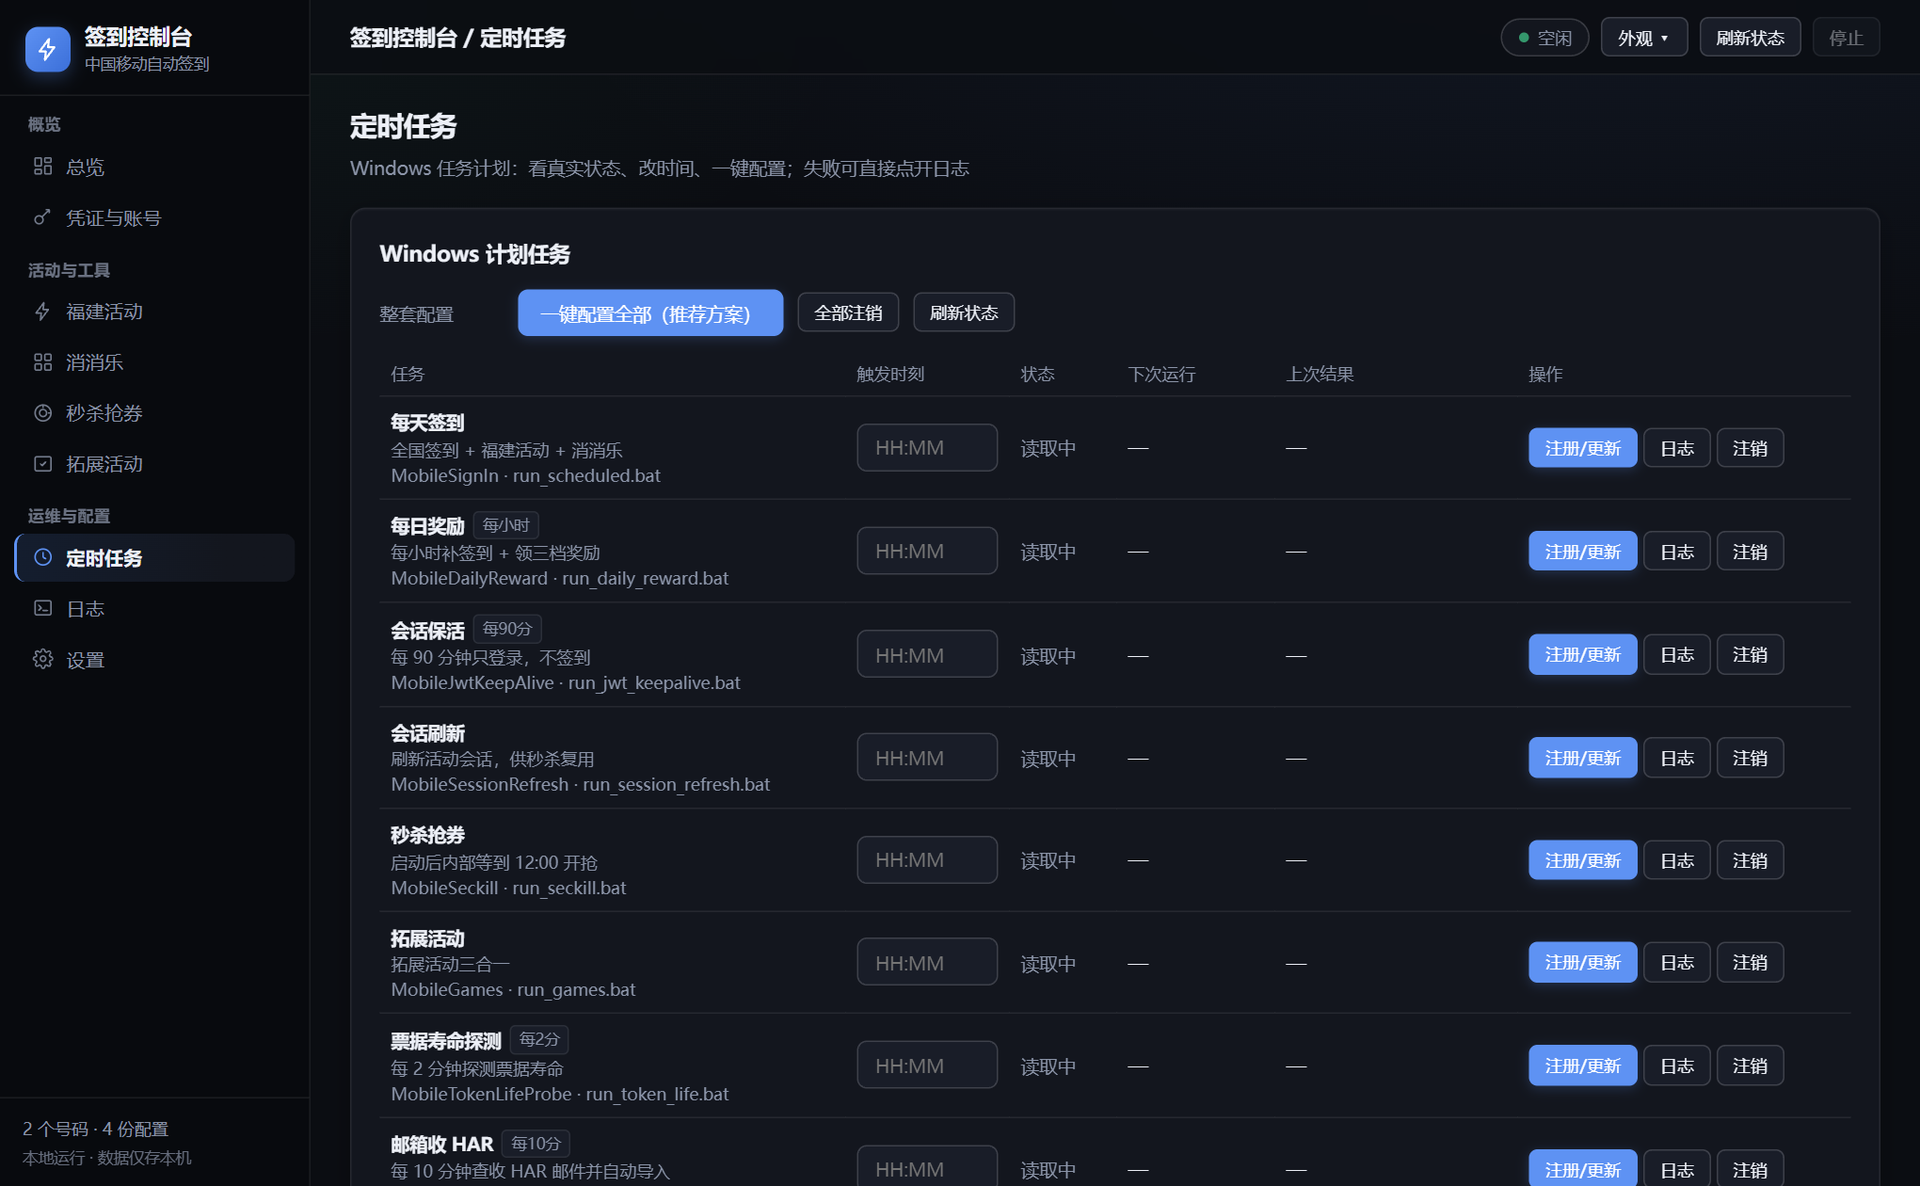
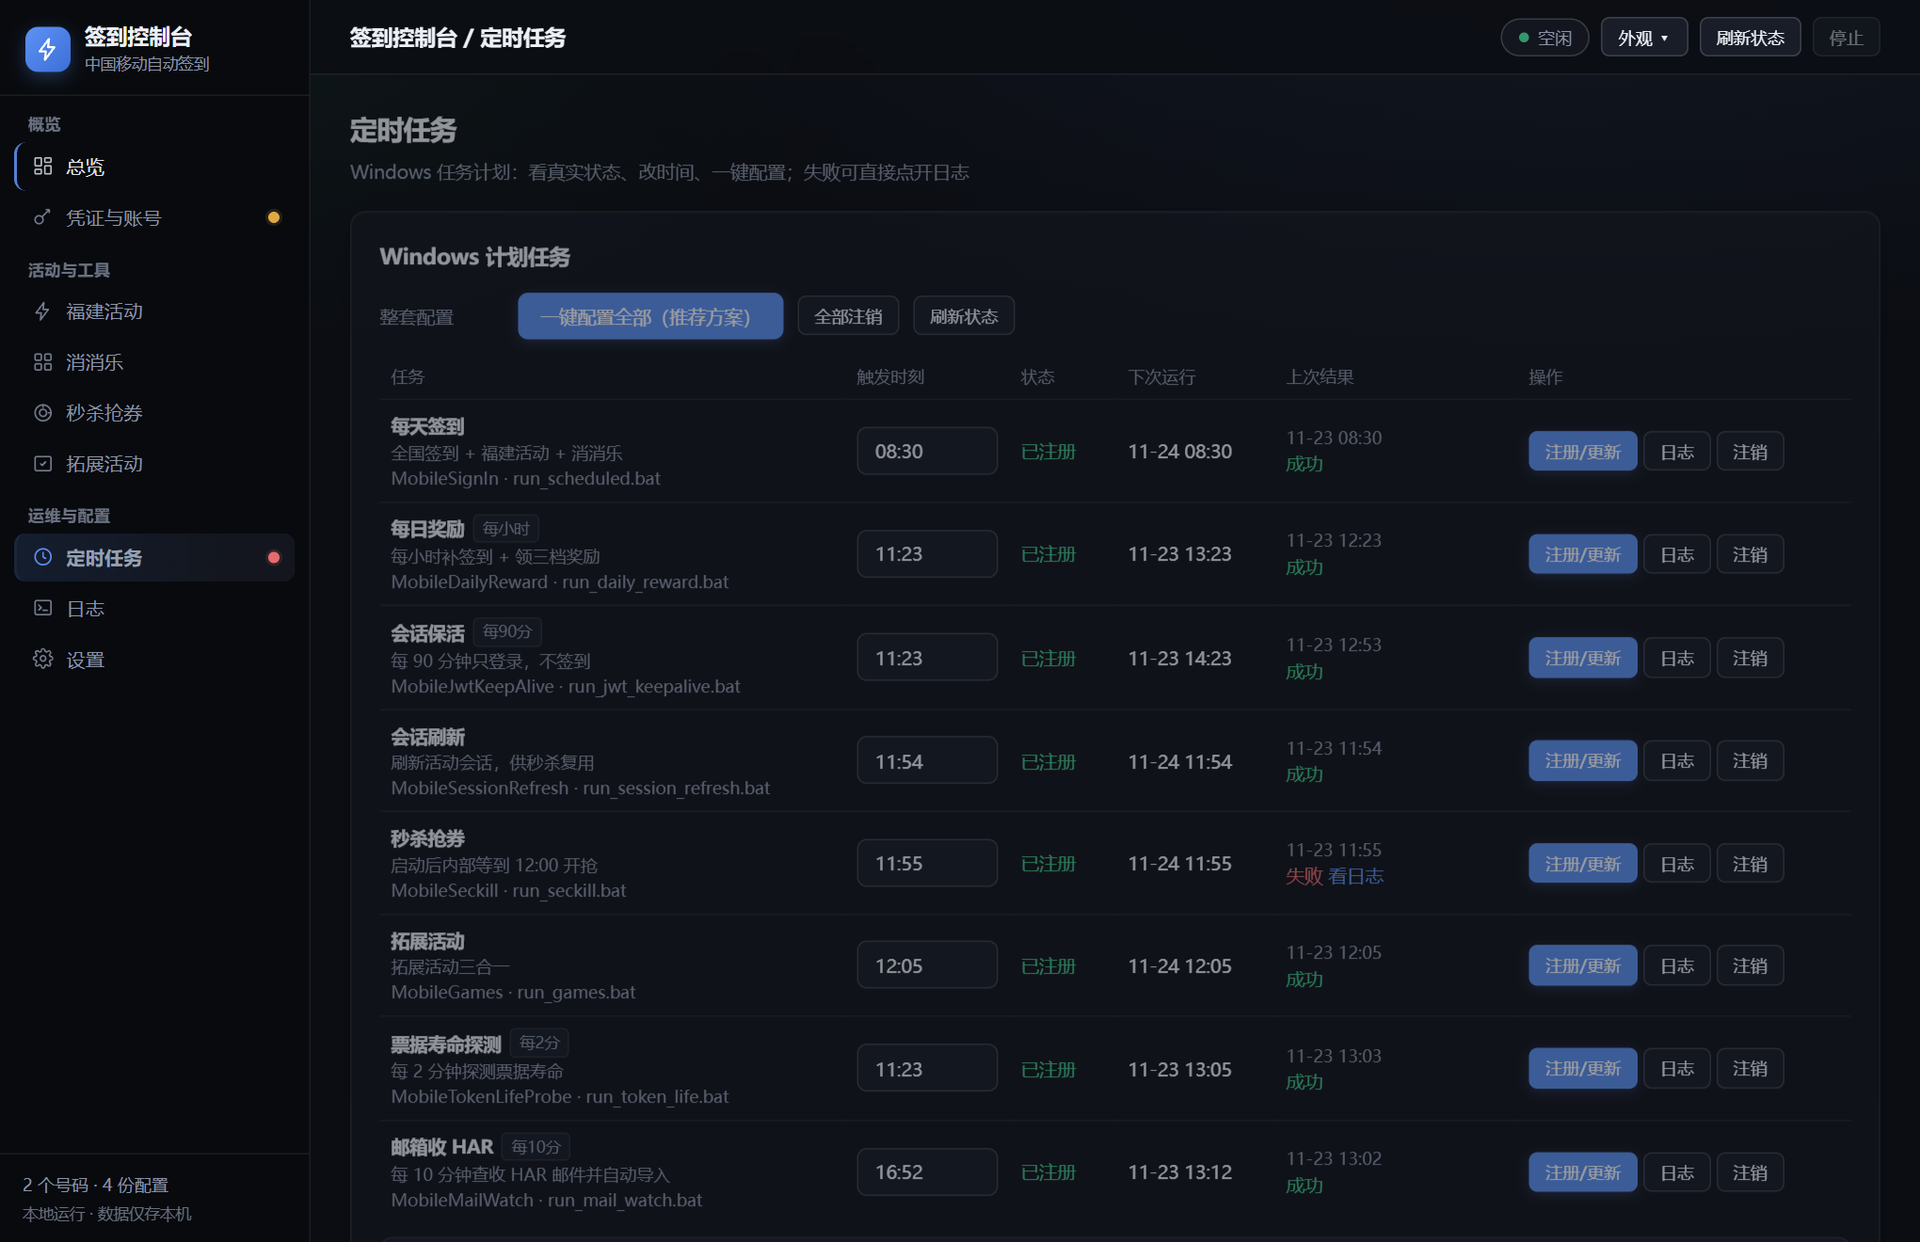
fix: 拦截只读查询模式下的推送通知，补齐抽奖/寻宝就地输出框与预览图细节

diff --git a/static/index.html b/static/index.html
@@ -171,10 +171,11 @@
         <div class="panel" data-bass-group="play">
           <h3>优惠专区抽奖 <span class="hint">共用福建活动凭证，刷任务 + 抽奖</span></h3>
           <div class="frow">
-            <button type="button" class="btn pri" onclick="act({action:'luck_run'},()=>setTimeout(pullState,3000))">刷任务并抽奖</button>
-            <button type="button" class="btn" onclick="act({action:'luck_run',dry:1},()=>setTimeout(pullState,3000))">只查状态</button>
-            <button type="button" class="btn" onclick="act({action:'luck_run',no_tasks:1},()=>setTimeout(pullState,2500))">只抽不刷任务</button>
+            <button type="button" class="btn pri" onclick="runLuck('all')">刷任务并抽奖</button>
+            <button type="button" class="btn" onclick="runLuck('dry')">只查状态</button>
+            <button type="button" class="btn" onclick="runLuck('no_tasks')">只抽不刷任务</button>
           </div>
+          <div id="luckOutBox"></div>
           <div id="luckBox"></div>
           <details class="guide">
             <summary>凭证说明（与养成游戏共用，通常可持续 20 小时以上）</summary>
@@ -195,7 +196,7 @@
             <span id="bFodder" class="muted" style="color:var(--warn)"></span></div>
           <div class="frow"><label>阶段喂满时</label>
             <label class="chk"><input type="checkbox" id="bAuto" autocomplete="off" onchange="pickStage('auto')">领本阶奖品后继续喂</label>
-            <select class="inp inp-sm" id="bPrize" autocomplete="off" style="display:none" title="领哪一档奖品">
+            <select class="inp inp-sm" id="bPrize" autocomplete="off" style="display:none" title="只有一阶和六阶可以自己挑档位；二~五阶由服务端按权重随机开奖">
               <option value="fee">领话费券</option>
               <option value="flow">领流量包</option>
               <option value="discount">领折扣券</option>
@@ -237,9 +238,10 @@
         <div class="panel" data-bass-group="play">
           <h3>环闽寻宝记 <span class="hint">投骰子走棋盘，到终点开藏宝阁</span></h3>
           <div class="frow">
-            <button type="button" class="btn pri" onclick="act({action:'xunbao_run'},()=>setTimeout(pullState,3000))">投掉现有骰子</button>
-            <button type="button" class="btn" onclick="act({action:'xunbao_run',dry:1},()=>setTimeout(pullState,2500))">只查进度</button>
+            <button type="button" class="btn pri" onclick="runXunbao('all')">投掉现有骰子</button>
+            <button type="button" class="btn" onclick="runXunbao('dry')">只查进度</button>
           </div>
+          <div id="xunbaoOutBox"></div>
           <div id="xunbaoBox"></div>
           <details class="guide">
             <summary>骰子、加骰子任务与中奖记账说明</summary>

diff --git a/static/app.js b/static/app.js
@@ -180,6 +180,19 @@ function runBassProbe(){
   capStart('bass');
   act({action:'bass_probe',key:V('bassRunKey')}).then(capArm);
 }
+function runLuck(mode){
+  capStart('luckOut');
+  const body={action:'luck_run'};
+  if(mode==='dry')body.dry=1;
+  if(mode==='no_tasks')body.no_tasks=1;
+  act(body).then(capArm);
+}
+function runXunbao(mode){
+  capStart('xunbaoOut');
+  const body={action:'xunbao_run'};
+  if(mode==='dry')body.dry=1;
+  act(body).then(capArm);
+}
 function pickStage(which){
   if(which==='auto'&&$('bAuto').checked)$('bCont').checked=false;
   if(which==='cont'&&$('bCont').checked)$('bAuto').checked=false;
@@ -189,7 +202,7 @@ function syncStageUi(){
   const a=$('bAuto'), c=$('bCont'), p=$('bPrize'), h=$('bStageHint');
   if(!a||!c)return;
   if(p)p.style.display=a.checked?'':'none';
-  if(h)h.textContent=a.checked?'喂满时会领所选档位的奖品后继续喂'
+  if(h)h.textContent=a.checked?'喂满时会领奖后继续喂（一/六阶按所选档位，二~五阶服务端随机开奖）'
     :(c.checked?'喂满时会放弃本阶奖品直接升阶（奖品作废）':'都不勾：快喂满时会停手等你决定');
 }
 // 手动执行区的勾选只管这一次：页面每次加载都回到默认，不让浏览器偷偷恢复

diff --git a/tests/test_notify.py b/tests/test_notify.py
@@ -445,3 +445,51 @@ class TestNotifyReliabilityAndSSRF(unittest.TestCase):
                     t.join()
             self.assertEqual(len(calls), 1)
 
+
+class TestDryRunNeverNotifies(unittest.TestCase):
+    """只读查询（--dry-run / 只查状态 / 刷新状态）在控制台已有输出，绝不该发 PushPlus 打扰手机。"""
+
+    def test_cmcc_sign_dry_run_success_does_not_notify(self):
+        import cmcc_sign as CS
+        cfg = type("Cfg", (), {"phone": "13800001234", "app_token": "tok",
+                               "bark_url": "", "serverchan_sendkey": "", "pushplus_token": ""})()
+        fake_status = {"userinfo": {"accumulateTimes": 21}, "markstatus": []}
+        with mock.patch.object(CS, "exchange_session", return_value=(object(), "https://wx.10086.cn/x")), \
+             mock.patch.object(CS, "query_markstatus", return_value=fake_status), \
+             mock.patch.object(CS, "save_activity_session"), \
+             mock.patch.object(CS, "emit_result"), \
+             mock.patch.object(CS, "notify") as m_notify:
+            rc = CS.run(cfg, dry_run=True, claim=False, games=False)
+        self.assertEqual(rc, 0)
+        m_notify.assert_not_called()
+
+    def test_cmcc_sign_dry_run_exception_does_not_notify(self):
+        import cmcc_sign as CS
+        with tempfile.TemporaryDirectory() as td:
+            cf = Path(td) / "3239.json"
+            cf.write_text('{"phone":"13800001234","app_token":"JSESSIONID=x; UID=y; ticketID=z"}',
+                          encoding="utf-8")
+            with mock.patch.object(sys, "argv", ["cmcc_sign.py", "--config", str(cf), "--dry-run"]), \
+                 mock.patch.object(CS, "run", side_effect=RuntimeError("appTokenLogin 失败")), \
+                 mock.patch.object(CS, "emit_result"), \
+                 mock.patch.object(CS, "notify") as m_notify:
+                rc = CS.main()
+        self.assertEqual(rc, 1)
+        m_notify.assert_not_called()
+
+    def test_cmcc_seckill_dry_run_does_not_notify_on_missing_session_or_won(self):
+        import cmcc_seckill as SK
+        cfg = type("Cfg", (), {"phone": "13800001234", "app_token": "tok",
+                               "bark_url": "", "serverchan_sendkey": "", "pushplus_token": ""})()
+        # 1. 会话缺失 + dry_run → 不推送
+        with mock.patch.object(SK, "acquire_session_with_retry", side_effect=RuntimeError("无会话")), \
+             mock.patch.object(SK, "notify") as m_notify:
+            rc = SK.run(cfg, dry_run=True, once=False, at=None,
+                        interval=0.35, lead=0.4, max_attempts=1, pre_window_s=60.0)
+        self.assertEqual(rc, 1)
+        m_notify.assert_not_called()
+
+
+if __name__ == "__main__":
+    unittest.main()
+

diff --git a/cmcc_fj.py b/cmcc_fj.py
@@ -485,13 +485,14 @@ def _claim_label(pid) -> str:
 def receive_stage_prize(s, cfg, kind):
     """领阶段奖励；返回 (resp, prizeId, prizeName)。
 
-    一阶/六阶带 prizeId 指定档位；二~五阶服务端随机开奖，走无参调用
+    一阶/六阶带 prizeId 指定档位；二~五阶（或 kind=None 退回默认档时）
+    服务端随机/默认开奖，走无参调用
     （11-19 实测无参即领默认档，成功后 feedFodders 归零、status 回到 0）。
     """
     st = call(s, cfg, "stage_info")
     raw = ((st.get("data") or {}).get("stageInfo") or {}).get("stage")
     stage = int(raw) if raw is not None else 0
-    if stage in CHOOSABLE_STAGES:
+    if kind is not None and stage in CHOOSABLE_STAGES:
         pid = prize_id_for(stage, kind)
         r = call(s, cfg, "stage_receive", extra={"prizeId": pid})
     else:
@@ -571,10 +572,10 @@ def run_feed(s, cfg, args, res, prize_kind, key, track_daily):
                     # 随机阶没有「换档位」可退，重试也是同一个请求，别刷两遍
                     print("  -  随机阶领奖失败，停止喂养")
                     break
-                # 带 prizeId 不被服务端接受时，退回默认档，至少不卡住
+                # 带 prizeId 不被服务端接受时，退回无参默认档，至少不卡住
                 print("     -  指定档位失败，退回默认档重试")
                 pause()
-                rp2, _pid2, pname2 = receive_stage_prize(s, cfg, "fee")
+                rp2, _pid2, pname2 = receive_stage_prize(s, cfg, None)
                 if show("领阶段奖励(默认档)", rp2):
                     _got_prize(res, pname2, cfg)
                     continue
@@ -982,7 +983,7 @@ def main():
                 _got_prize(res, pname, cfg)
             elif pid is not None:
                 pause()
-                r2c, _p, pname2 = receive_stage_prize(s, cfg, "fee")
+                r2c, _p, pname2 = receive_stage_prize(s, cfg, None)
                 if show("领阶段奖励(默认档)", r2c):
                     _got_prize(res, pname2, cfg)
         else:

diff --git a/cmcc_seckill.py b/cmcc_seckill.py
@@ -442,9 +442,10 @@ def run(cfg: Config, dry_run: bool, once: bool, at: str,
     except Exception as e:
         log.error("没有可用会话：%s", e)
         log.error("请在开抢前重新抓包导入；脚本运行期间导入也会被自动识别。")
-        notify(cfg, "移动秒杀：会话缺失",
-               f"{e}\n请在开抢前重新抓包导入\n"
-               "手机尾号 %s" % (cfg.phone[-4:] if cfg.phone else "????"))
+        if not dry_run:
+            notify(cfg, "移动秒杀：会话缺失",
+                   f"{e}\n请在开抢前重新抓包导入\n"
+                   "手机尾号 %s" % (cfg.phone[-4:] if cfg.phone else "????"))
         return 1
 
     srv_ms = server_now_ms(s, referer)
@@ -482,7 +483,8 @@ def run(cfg: Config, dry_run: bool, once: bool, at: str,
         detail = (f"{zone['prize']['name']}\n场次 {st.strftime('%m-%d %H:%M')}，"
                   f"今日已抢到，无需重复抢购\n手机尾号 {cfg.phone[-4:]}")
         log.info("本场已抢到（prize.status=1），无需再抢")
-        notify(cfg, "移动秒杀：今日已抢到", detail)
+        if not dry_run:
+            notify(cfg, "移动秒杀：今日已抢到", detail)
         # 已经抢到过了，也要把这张券补记进「收获」台账
         record_seckill_prize({"data": {"prizeName": zone["prize"]["name"]}}, cfg, zone)
         emit_result({"plat": "seckill", "token": "ok", "success": True,
@@ -608,7 +610,8 @@ def main() -> int:
         return 1
     except Exception as e:
         log.exception("执行失败: %s", e)
-        notify(cfg, "移动秒杀异常", f"{e}\n手机尾号 {cfg.phone[-4:] if cfg.phone else '????'}")
+        if not args.dry_run:
+            notify(cfg, "移动秒杀异常", f"{e}\n手机尾号 {cfg.phone[-4:] if cfg.phone else '????'}")
         return 1
 
 

diff --git a/run_all.py b/run_all.py
@@ -637,13 +637,15 @@ def main():
         args.seckill = False
         args.platform = "none"
 
-    # 保活：只登录续 jwt，不签到；失败也不推送（保活失败由每日签到去告警）
+    # 保活 / 只读检查：不签到或只读探测，都不推送手机通知
     if args.keepalive:
         args.platform = "qwhd"
         args.xxl = False
         args.dry_run = False
         args.no_notify = True
         extra_map["qwhd"].append("--login-only")
+    if args.dry_run:
+        args.no_notify = True
 
     # 拓展活动（周六游戏中心 / 追剧 / 玩游戏抽话费）需要透传 --games，
     # 否则这些代码写好了却永远没人调用。
@@ -727,7 +729,7 @@ def main():
     # 给邮箱监听用的触发标记：只有「票失效了、今天还没全做完」才值得去收 HAR
     if TOKEN_DEAD_ACCOUNTS:
         mark_mail_needed(TOKEN_DEAD_ACCOUNTS)
-    elif should_mark_done(args.platform, good, len(results)):
+    elif not args.dry_run and should_mark_done(args.platform, good, len(results)):
         mark_today_done()
 
     # 推送通道配置：战报和失败提醒都用它
@@ -743,7 +745,7 @@ def main():
 
     # 做完就推「今日战报」：当天到手的东西按账号分组。
     # 不再要求「全部成功且无过期」——只要今天真有收获就发总结。
-    # notify_once 按天去重，每小时轮询也只会推一条。
+    # notify_once 按天去重，每小时轮询也只会推一条；只读检查（--dry-run 已置 no_notify）不推通知。
     if not args.no_notify and done:
         try:
             from common import daily_report

diff --git a/tests/browser_smoke.py b/tests/browser_smoke.py
@@ -196,14 +196,17 @@ with sync_playwright() as p:
     check("秒杀结果区存在", page.eval_on_selector_all("#skBox", "e=>e.length") == 1)
     page.screenshot(path=str(OUT / "shot_seckill.png"), full_page=True)
 
-    # 字号缩放
+    # 字号缩放（顶栏「外观」弹层内触发，基于根节点 rem 与 --ui-scale）
+    page.click('#btnAppear')
+    page.wait_for_timeout(150)
     page.click('button[aria-label="放大字号"]')
     page.wait_for_timeout(200)
-    z = page.evaluate("()=>document.documentElement.style.zoom")
+    z = page.evaluate("()=>document.documentElement.style.getPropertyValue('--ui-scale')")
     check("字号可放大", str(z) == "1.1", z)
     page.click('button[aria-label="缩小字号"]')
     page.wait_for_timeout(200)
-    check("字号可缩回", str(page.evaluate("()=>document.documentElement.style.zoom")) == "1")
+    check("字号可缩回", str(page.evaluate("()=>document.documentElement.style.getPropertyValue('--ui-scale')")) == "1")
+    page.click('#btnAppear')
 
     # 动态内容转义：伪造一份带 HTML 的 STATE，只重绘，不触发任何任务。
     # 注入的 img 若被当成元素插入，onerror 会置 window.__xss。

diff --git a/cmcc_sign.py b/cmcc_sign.py
@@ -604,7 +604,8 @@ def run(cfg: Config, dry_run: bool, claim: bool, tasks: bool = False, games: boo
 
     summary = "\n".join(lines)
     log.info("\n%s", summary)
-    notify(cfg, "移动签到通知", f"{summary}\n手机尾号 {cfg.phone[-4:]}")
+    if not dry_run:
+        notify(cfg, "移动签到通知", f"{summary}\n手机尾号 {cfg.phone[-4:]}")
     emit_result(res)
     return 0
 
@@ -650,7 +651,8 @@ def main() -> int:
             log.exception("执行失败: %s", e)
         else:
             log.error("执行失败: %s", e)
-        notify(cfg, "移动签到异常", f"{e}\n手机尾号 {cfg.phone[-4:] if cfg.phone else '????'}")
+        if not args.dry_run and not args.login_only:
+            notify(cfg, "移动签到异常", f"{e}\n手机尾号 {cfg.phone[-4:] if cfg.phone else '????'}")
         emit_result({"plat": "qwhd",
                      "token": "expired" if "appTokenLogin" in str(e) else "error",
                      "error": str(e)[:200]})

diff --git a/dashboard.py b/dashboard.py
@@ -1320,9 +1320,10 @@ def do_action(body: dict):
         # 抽之前顺手把「加抽奖次数」的任务做掉（4 个任务 ≈ 2 次机会）
         patch["luck_tasks"] = bool(body.get("luck_tasks", True))
         # 寻宝骰子同样当天作废；任务上报只涉及「参与天天大转盘」这类真做过的
+        old_pol = load_policy()
         patch["xunbao"] = bool(body.get("xunbao", True))
         patch["coupon_world"] = bool(body.get("coupon_world", True))
-        patch["xunbao_tasks"] = bool(body.get("xunbao_tasks", True))
+        patch["xunbao_tasks"] = bool(body.get("xunbao_tasks", old_pol.get("xunbao_tasks", True)))
         xxl = body.get("xxl")
         if isinstance(xxl, dict):
             try:

diff --git a/cmcc_wed.py b/cmcc_wed.py
@@ -263,8 +263,9 @@ def main() -> int:
             log.error("app_token 约 30~46 分钟寿命，请重新抓包导入后再运行。")
         else:
             log.exception("周三充值日执行失败: %s", e)
-        notify(cfg, "周三充值日执行失败",
-               f"{msg.split('——')[0].strip()}\n手机尾号 {cfg.phone[-4:] if cfg.phone else '????'}")
+        if not args.dry_run:
+            notify(cfg, "周三充值日执行失败",
+                   f"{msg.split('——')[0].strip()}\n手机尾号 {cfg.phone[-4:] if cfg.phone else '????'}")
         return 1
 
 

diff --git a/README.md b/README.md
@@ -97,10 +97,10 @@ python run_all.py --dry-run
 
 | 页面 / 组件 | 内容与特性 |
 |---|---|
-| **顶栏外观** | 支持**深色 / 浅色 / 跟随系统**主题切换；支持 **85% ~ 115% 界面无级缩放**（基于根节点 `rem` 响应式缩放，高分屏不发虚、布局不截断） |
+| **顶栏外观** | 支持**深色 / 浅色**主题切换；支持 **80% ~ 160% 界面缩放**（基于根节点 `rem` 响应式缩放，高分屏不发虚、布局不截断） |
 | **总览** | **「现在需要你做什么」待办条**；**到账台账**（今天/本月到手流量、可用话费券，逐条记录时间+来源+兑换链接；要充值才生效的券不列入）；本月流量/任务数/凭证可用数；每号一张卡片（**双平台数据严格物理隔离** + 数据截至时间 + 近 7 天柱状图）；「签到领福利」会签到、领取可领饲料并使用已有转盘次数；也可只跑单平台或只读检查 |
 | **凭证与账号** | ① **账号管理**：新建账号、改手机号、配单个账号的失败推送（Bark / Server酱 / PushPlus）② **导入抓包文件**（支持拖拽与智能多目录扫描，一份 HAR 同时更新双平台凭证，含分步抓包引导） |
-| **福建活动** | 顶置**分类子标签页**（全部活动 / 养成与每日 / 天天大转盘 / 环闽寻宝记 / 流量银行），记忆上次停留状态；优惠专区抽奖；手动执行（领奖/骰子/喂养/只读）；**每日奖励 & 福袋**面板；**全勤满签大奖**；**流量银行任务周期**面板；**环闽寻宝记**面板（投骰子、开藏宝阁）；执行结果保留在结构化容器中 |
+| **福建活动** | 顶置**分类子标签页**（全部 / 每日与奖励 / 手动执行 / 抽奖与寻宝 / 流量银行），记忆上次停留状态；优惠专区抽奖；手动执行（领奖/骰子/喂养/只读）；**每日奖励 & 福袋**面板；**全勤满签大奖**；**流量银行任务周期**面板；**环闽寻宝记**面板（投骰子、开藏宝阁）；执行结果保留在结构化容器中 |
 | **消消乐** | 星级/局数/间隔与「金币任务换体力」开关（存在设置页，这里只显示）；关卡自动读取；只读查次数 |
 | **秒杀抢券** | 每天 12:00 抢 1 元话费券；各号会话是否备好、**票据已用多少分钟**；过了场次时间会明确提示 |
 | **拓展活动** | 周六游戏中心 / 追剧领福利 / 玩游戏抽话费，按各自窗口自动判定，支持只查状态与一键做任务 |
@@ -744,7 +744,7 @@ python probe_token_life.py --report
 
 ```bash
 pip install -r requirements.txt
-python -m unittest discover -s tests -v      # 408 个用例，覆盖全部业务、安全与界面
+python -m unittest discover -s tests -v      # 416 个用例，覆盖全部业务、安全与界面
 python tests/browser_smoke.py                # 可选：真实浏览器冒烟（需 playwright）
 ```
 
